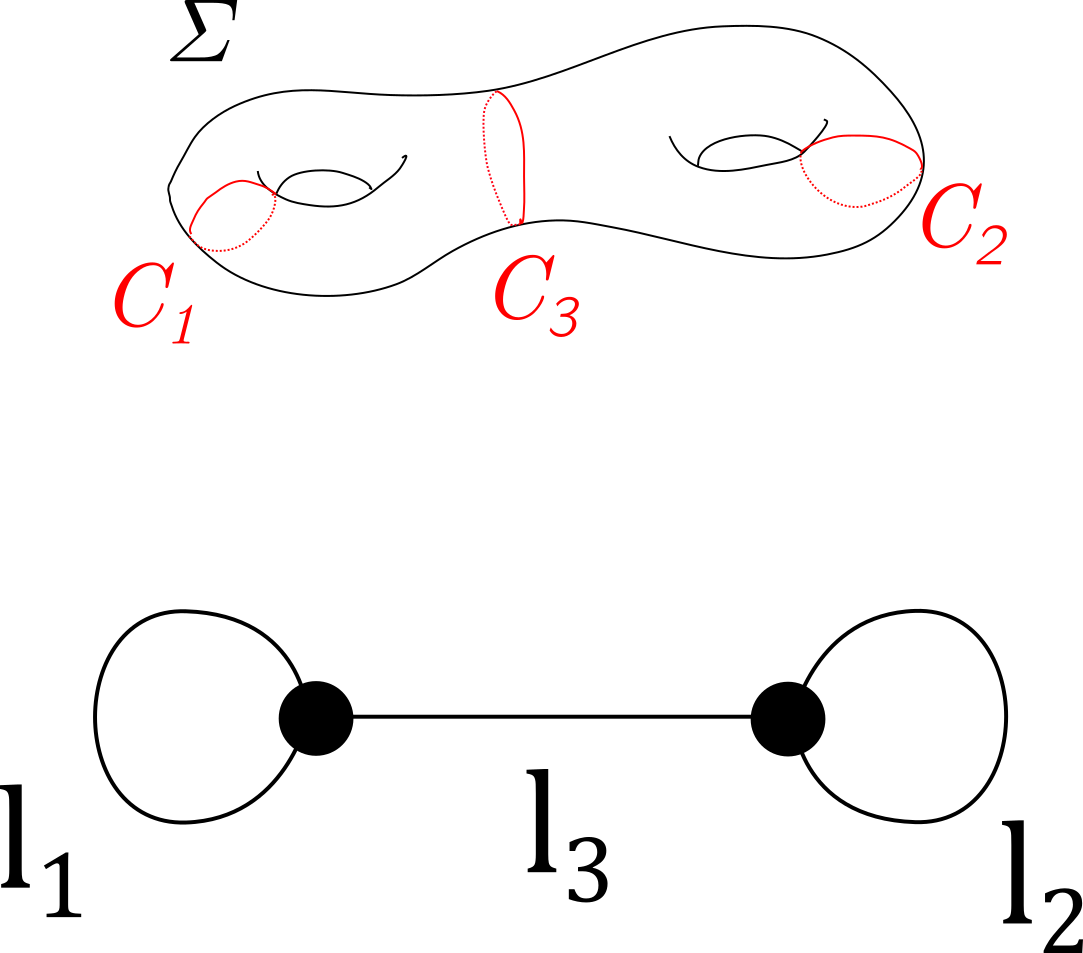
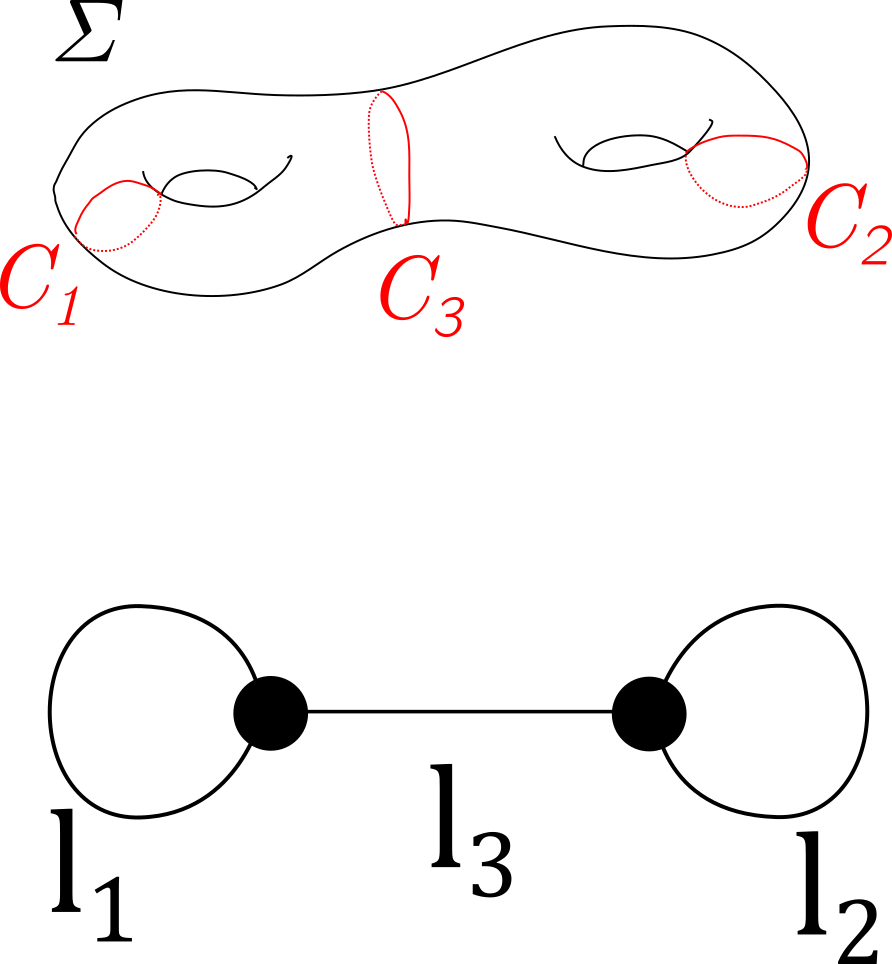
added more figures

diff --git a/jeffreyweitsman.tex b/jeffreyweitsman.tex
@@ -97,8 +97,9 @@ There is another construction of a prequantum line bundle for $\MM$, the \textit
 	\begin{figure}[h]
 		\centering
 		\label{fig:torusdecomp}
-		\subfloat[][A trinion decomposition for surfaces of genus $g\geq 2$.]{\includegraphics[width=0.5\linewidth]{genusg.png}\label{fig:genusg}}
-		\subfloat[][Example: A different decomposition for $g=2$.]{\includegraphics[width=0.5\linewidth]{g2sym.png}\label{fig:genus2}}
+		\subfloat[][One decomposition for surfaces of genus $g\geq 2$.]{\includegraphics[width=0.4\linewidth]{genusg.png}\label{fig:genusg}}
+		\hspace{0.1\linewidth}
+		\subfloat[][A different decomposition for $g=2$.]{\includegraphics[width=0.35\linewidth]{g2sym_nolabels.png}\label{fig:genus2}}
 		\caption{Decomposition of a surface $\Sigma$ into $2g-2$ trinions. }
 	\end{figure}
 
@@ -299,14 +300,23 @@ There is another construction of a prequantum line bundle for $\MM$, the \textit
 		Consider a fixed trinion decomposition of a compact connected Riemann surface $\Sigma$ of genus $g$. It gives rise to a trivalent graph, and a real polarisation of the moduli space $\MM$ of flat $SU(2)$ connections on $\Sigma$. There is one-to-one correspondence between the Bohr-Sommerfeld points of the polarisation and the set of integer labellings of the edges of the graph satisfying the conditions 1,2 in \ref{t:bs-count} and equation \ref{e:trinion-ineqs}.
 	\end{theorem}
 
+	\begin{figure}[h]
+		\centering
+		\label{fig:g2-graphs}
+		\subfloat[][The symmetric decomposition and graph.]{\includegraphics[width=0.4\linewidth]{g2sym_graph.png}\label{fig:sym-graph}}
+		\hspace{0.1\linewidth}
+		\subfloat[][The asymmetric decomposition and graph.]{\includegraphics[width=0.4\linewidth]{g2asym_graph.png}\label{fig:asym-graph}}
+		\caption{Decompositions of a genus 2 surface and the corresponding trivalent graphs.}
+	\end{figure}
+
 	\underline{Example}:
-	Let $\Sigma$ be the compact Riemann surface of genus $2$, which has two trinion decompositions into two trinions. Replacing the trinions with vertices and the boundary circles with edges, we obtain the graphs in (FIGURE). Let us use Theorem \ref{t:bs-count} to find the number of Bohr-Sommerfeld points for the line bundle $\LL$ over $\Sigma$ with respect to the polarisations defined by these decompositions. For the symmetric decomposition, conditions 1 and 2 are the same at each vertex, so it suffices to consider them at one vertex. Since $k=1$, each label must be either $0$ or $1$. Their sum must be even, which leaves us with four possibilities:
+	Let $\Sigma$ be the compact Riemann surface of genus $2$, which has two trinion decompositions into two trinions. Replacing the trinions with vertices and the boundary circles with edges, we obtain the graphs in Figure \ref{fig:g2-graphs}. Let us use Theorem \ref{t:bs-count} to find the number of Bohr-Sommerfeld points for the line bundle $\LL$ over $\Sigma$ with respect to the polarisations defined by these decompositions. For the symmetric decomposition, conditions 1 and 2 are the same at each vertex, so it suffices to consider them at one vertex. Since $k=1$, each label must be either $0$ or $1$. Their sum must be even, which leaves us with four possibilities:
 	\begin{equation}
 		(l_1, l_2, l_3) = (0,0,0), (1,1,0), (0,1,1), \text{ or } (1,0,1).
 	\end{equation}
 	Finally, one can check that each of these labellings satisfies $|l_1-l_2| \leq l_3 \leq l_1+l_2$, so these are all valid labellings. Therefore Theorem \ref{t:bs-count} tells us that there are four Bohr-Sommerfeld points of $\LL$ in the polarisation defined by the symmetric decomposition of $\Sigma$.
 	
-	For the asymmetric decomposition, the conditions at each vertex must be checked separately, as they are different. Denoting the vertices as $v^1$ and $v^2$ and their edges by $l^1_i$ and $l^2_i$, we have that
+	For the asymmetric decomposition, the conditions at each vertex must be checked separately, as they are different. Denoting the edges at the two vertices by $l^1_i$ and $l^2_i$, we have that
 	\begin{align}
 		(l^1_1,l^1_2,l^2_3) &= (l_1, l_1, l_3), & (l^2_1,l^2_2,l^2_3) &= (l_2, l_2, l_3).
 	\end{align} 
